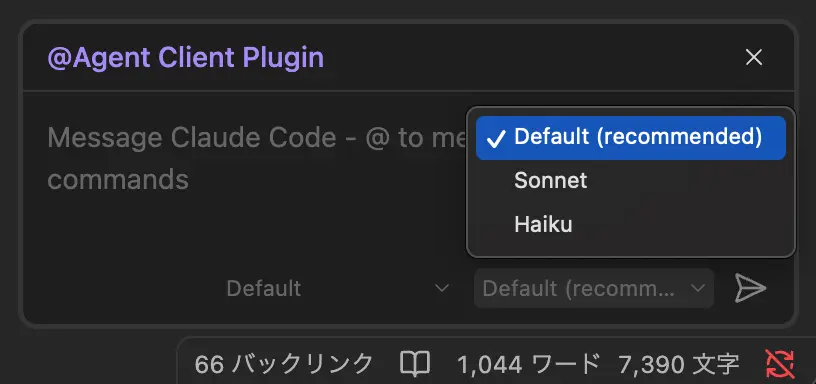
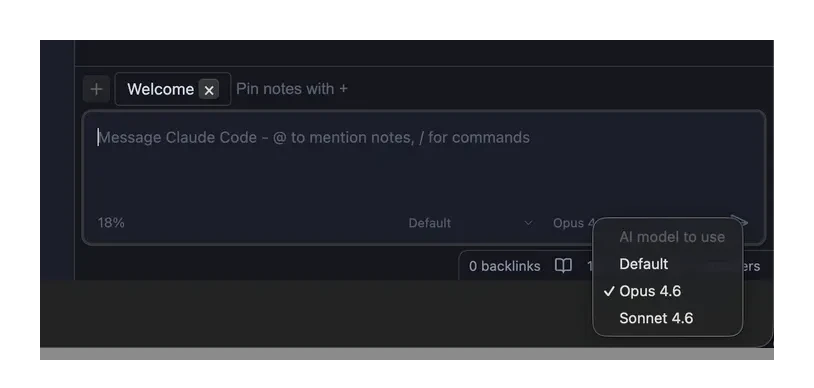
fix(screenshots): correct-window screen capture (I13) + close orphaned menus on unload (I14)
I13 - screen-mode capture grabbed the wrong Obsidian window:
screencapture -R composites the topmost window at the region, and the
daily-driver vault window (which hosts the agent session) stays
OS-frontmost over the fixtures window - so a popover shot leaked real
vault content while the renderer-DOM asserts still passed. Fix: float
the fixtures window (setAlwaysOnTop "floating" + moveTop) for the
capture, restored in a finally. Hands-free; +5 reproduce-first tests.

I14 - native menu popup orphaned across runs:
the plugin created Menus but never closed them on unload, so setup.sh's
plugin:disable orphaned the open popup and the next run screenshotted it.
Every in-sandbox tooling dismiss failed (DOM/Electron/OS-Escape/CDP/
hide-show); a CDP-injected click is dropped (window never OS-frontmost).
Fix is plugin-side: src/utils/menu-registry.ts tracks open Menus
(registerOpenMenu at the 5 new Menu() sites) and closeOpenMenus() runs
in plugin onunload. +4 reproduce-first tests. End-to-end validated
(model->mode no longer pollutes).

Batch 1 (3/4) regenerated against 1.1.4 with semantic clickSelectors
(fixes model-selection :last-child wrong-target defect now that
thought_level is the 3rd dropdown) + Tier-1 editorial fields:
mode-selection, model-selection, switch-agent (More-menu crop calibrated).

Gates: build 0, vitest 535/535, tsc clean, eslint src/ 0 errors.
No user-facing docs impact (onunload menu-close is invisible behavior).

diff --git a/tools/screenshots/lib/__tests__/orchestrator.test.ts b/tools/screenshots/lib/__tests__/orchestrator.test.ts
@@ -46,6 +46,7 @@ function makeMockCdp() {
 		clickWithCoords: vi.fn().mockResolvedValue(undefined),
 		getWindowBounds: vi.fn().mockResolvedValue({ x: 100, y: 50, width: 800, height: 600, scaleFactor: 2 }),
 		setWindowBounds: vi.fn().mockResolvedValue(undefined),
+		setWindowAlwaysOnTop: vi.fn().mockResolvedValue(undefined),
 		getWorkArea: vi.fn().mockResolvedValue({ x: 0, y: 30, width: 3200, height: 1770, scaleFactor: 2 }),
 		screenCaptureRegion: vi.fn().mockResolvedValue(undefined),
 		screenshot: vi.fn().mockResolvedValue(undefined),
@@ -572,7 +573,6 @@ describe("captureEntry — group crop (cropSelectors)", () => {
 	});
 });
 
-
 describe("captureEntry — screen capture mode (popovers)", () => {
 	it("uses screenCaptureRegion (not dev:screenshot) and the window scale factor for screen mode", async () => {
 		const deps = makeDeps();
@@ -612,6 +612,72 @@ describe("captureEntry — screen capture mode (popovers)", () => {
 		});
 	});
 
+	it("floats the fixtures window before screen capture and restores it after (I13)", async () => {
+		const deps = makeDeps();
+		const entry = {
+			name: "mode-selection",
+			width: 100,
+			height: 50,
+			crop: { x: 0, y: 0, width: 100, height: 50 },
+			captureMode: "screen" as const,
+			promptFile: "connect.txt",
+			initialState: { clickRibbon: true, clickSelector: ".x" },
+		};
+
+		await captureEntry(entry, deps);
+
+		const aot = deps.cdp.setWindowAlwaysOnTop as ReturnType<typeof vi.fn>;
+		// Floated on (true) and restored off (false).
+		expect(aot).toHaveBeenCalledWith(true);
+		expect(aot).toHaveBeenCalledWith(false);
+		// The float must precede the screencapture; the restore must follow it.
+		const order = aot.mock.invocationCallOrder;
+		const capOrder = (deps.cdp.screenCaptureRegion as ReturnType<typeof vi.fn>)
+			.mock.invocationCallOrder[0];
+		expect(order[0]).toBeLessThan(capOrder); // setTrue before capture
+		expect(order[order.length - 1]).toBeGreaterThan(capOrder); // setFalse after
+	});
+
+	it("restores alwaysOnTop even when the capture throws — the window never lingers over the daily vault (I13)", async () => {
+		const deps = makeDeps();
+		(
+			deps.cdp.screenCaptureRegion as ReturnType<typeof vi.fn>
+		).mockRejectedValue(new Error("screencapture boom"));
+		const entry = {
+			name: "mode-selection",
+			width: 100,
+			height: 50,
+			crop: { x: 0, y: 0, width: 100, height: 50 },
+			captureMode: "screen" as const,
+			promptFile: "connect.txt",
+			initialState: { clickRibbon: true, clickSelector: ".x" },
+		};
+
+		await expect(captureEntry(entry, deps)).rejects.toThrow(/boom/);
+		// Finally restored the float despite the throw.
+		expect(deps.cdp.setWindowAlwaysOnTop).toHaveBeenCalledWith(false);
+	});
+
+	it("does NOT float the window for window-mode (dev:screenshot) entries (I13)", async () => {
+		const deps = makeDeps();
+		const entry = {
+			name: "ribbon-icon",
+			width: 100,
+			height: 50,
+			crop: { x: 0, y: 0, width: 100, height: 50 },
+			initialState: { openNote: "Welcome.md" },
+		};
+
+		await captureEntry(entry, deps);
+
+		// Window mode uses dev:screenshot (renderer capture) — immune to
+		// z-order — so no float/restore is needed.
+		expect(deps.cdp.setWindowAlwaysOnTop).not.toHaveBeenCalled();
+		expect(deps.cdp.screenshot).toHaveBeenCalled();
+	});
+
+	
+	
 	it("clicks the dropdown via clickWithCoords and does NOT wait for .menu in screen mode", async () => {
 		const deps = makeDeps();
 		const entry = {

diff --git a/src/utils/__tests__/menu-registry.test.ts b/src/utils/__tests__/menu-registry.test.ts
@@ -1,0 +1,65 @@
+import { describe, it, expect, vi, beforeEach } from "vitest";
+import {
+	registerOpenMenu,
+	closeOpenMenus,
+	_openMenuCount,
+} from "../menu-registry";
+import type { Menu } from "obsidian";
+
+/** Minimal Menu stub: records hide() and captures the onHide callback. */
+function makeMenu() {
+	let hideCb: (() => void) | undefined;
+	const menu = {
+		hide: vi.fn(() => {
+			hideCb?.(); // Obsidian fires onHide when the menu hides
+		}),
+		onHide: vi.fn((cb: () => void) => {
+			hideCb = cb;
+		}),
+	};
+	return menu as unknown as Menu & {
+		hide: ReturnType<typeof vi.fn>;
+		onHide: ReturnType<typeof vi.fn>;
+	};
+}
+
+describe("menu-registry (I14 — close orphaned menus on plugin unload)", () => {
+	beforeEach(() => {
+		// Ensure a clean registry between tests.
+		closeOpenMenus();
+	});
+
+	it("tracks an open menu", () => {
+		const m = makeMenu();
+		registerOpenMenu(m);
+		expect(_openMenuCount()).toBe(1);
+		expect(m.onHide).toHaveBeenCalled();
+	});
+
+	it("auto-untracks a menu when it hides normally (selection / outside click)", () => {
+		const m = makeMenu();
+		registerOpenMenu(m);
+		expect(_openMenuCount()).toBe(1);
+		m.hide(); // user dismisses normally → onHide fires → untracked
+		expect(_openMenuCount()).toBe(0);
+	});
+
+	it("closes every still-open menu on unload and clears the registry", () => {
+		const a = makeMenu();
+		const b = makeMenu();
+		registerOpenMenu(a);
+		registerOpenMenu(b);
+		expect(_openMenuCount()).toBe(2);
+
+		closeOpenMenus();
+
+		expect(a.hide).toHaveBeenCalledTimes(1);
+		expect(b.hide).toHaveBeenCalledTimes(1);
+		expect(_openMenuCount()).toBe(0);
+	});
+
+	it("is idempotent — closing again with no open menus is a no-op", () => {
+		closeOpenMenus();
+		expect(_openMenuCount()).toBe(0);
+	});
+});

diff --git a/src/utils/menu-registry.ts b/src/utils/menu-registry.ts
@@ -1,0 +1,50 @@
+import type { Menu } from "obsidian";
+
+/**
+ * Tracks currently-open Obsidian {@link Menu} popups so the plugin can close
+ * them when it unloads.
+ *
+ * Obsidian's `Menu` is a native popup that is NOT closed automatically when the
+ * owning plugin unloads. If the plugin is reloaded (a BRAT update, a manual
+ * disable/enable, or the screenshot-automation `setup.sh`) while a dropdown
+ * menu is open, the menu *orphans*: it stays on screen, detached from the
+ * unloaded plugin's menu manager, and a newly-opened menu will not replace it.
+ * For real users this is a minor cosmetic glitch (a stray menu, dismissable
+ * with a click); for the screenshot pipeline it means a later capture
+ * screenshots the prior run's menu (I14 in the screenshot-automation spec).
+ *
+ * Registering each menu on open and closing any still-open ones in the plugin's
+ * `onunload` prevents the orphan. The registry is module-level (shared across
+ * the plugin's components); the plugin instance owns the lifecycle by calling
+ * {@link closeOpenMenus} from `onunload`, which runs while this module's state
+ * is still intact (the module only reloads on the subsequent enable).
+ */
+const openMenus = new Set<Menu>();
+
+/**
+ * Track a freshly-created menu so it can be force-closed on plugin unload.
+ * The menu auto-untracks itself when it hides normally (selection or outside
+ * click), so the registry only ever holds genuinely-open menus.
+ *
+ * Call immediately after `new Menu()` (before or after `showAtMouseEvent`).
+ */
+export function registerOpenMenu(menu: Menu): void {
+	openMenus.add(menu);
+	menu.onHide(() => openMenus.delete(menu));
+}
+
+/**
+ * Close every still-open tracked menu. Called from the plugin's `onunload` so a
+ * reload never leaves an orphaned native popup on screen.
+ */
+export function closeOpenMenus(): void {
+	for (const menu of openMenus) {
+		menu.hide();
+	}
+	openMenus.clear();
+}
+
+/** Test-only: current count of tracked open menus. */
+export function _openMenuCount(): number {
+	return openMenus.size;
+}

diff --git a/tools/screenshots/lib/__tests__/cdp.test.ts b/tools/screenshots/lib/__tests__/cdp.test.ts
@@ -396,3 +396,35 @@ describe("Cdp.clearViewport (I11)", () => {
 		expect(args).toContain("method=Emulation.clearDeviceMetricsOverride");
 	});
 });
+
+describe("Cdp.setWindowAlwaysOnTop (I13 — float the fixtures window for screen capture)", () => {
+	function proc() {
+		return makeFakeProc({
+			stdout: JSON.stringify({ result: { type: "boolean", value: true } }),
+		});
+	}
+
+	it("floats at the 'floating' level and raises when enabled", async () => {
+		spawnMock.mockImplementationOnce(() => proc());
+		const cdp = new Cdp();
+		await cdp.setWindowAlwaysOnTop(true);
+		const params = (spawnMock.mock.calls[0][1] as string[]).find((a) =>
+			a.startsWith("params="),
+		)!;
+		expect(params).toContain("setAlwaysOnTop(true");
+		expect(params).toContain("floating");
+		expect(params).toContain("moveTop");
+	});
+
+	it("clears alwaysOnTop when disabled", async () => {
+		spawnMock.mockImplementationOnce(() => proc());
+		const cdp = new Cdp();
+		await cdp.setWindowAlwaysOnTop(false);
+		const params = (spawnMock.mock.calls[0][1] as string[]).find((a) =>
+			a.startsWith("params="),
+		)!;
+		expect(params).toContain("setAlwaysOnTop(false)");
+		expect(params).not.toContain("floating");
+	});
+});
+

diff --git a/tools/screenshots/lib/cdp.ts b/tools/screenshots/lib/cdp.ts
@@ -267,6 +267,26 @@ export class Cdp {
 	}
 
 	/**
+	 * Float (or un-float) THIS window above all others. Screen-mode captures
+	 * use `screencapture -R`, which composites whatever window is topmost at
+	 * the region — and the user's daily-driver Obsidian window (which hosts the
+	 * agent session driving this capture) stays OS-focused, so a focus()/raise
+	 * loses the z-order race and the capture grabs the wrong window's pixels
+	 * while the DOM-based asserts (which target the vault="vault" renderer)
+	 * still pass. Setting the fixtures window alwaysOnTop at the "floating"
+	 * level lifts it — and its native Menu popup, which renders above it
+	 * (verified) — over the daily-driver regardless of focus, so the capture
+	 * always grabs the fixtures window. Restored to false after the capture so
+	 * the window doesn't linger over the user's daily vault (I13).
+	 */
+	async setWindowAlwaysOnTop(enabled: boolean): Promise<void> {
+		const expr = enabled
+			? `(() => { try { const w = require("@electron/remote").getCurrentWindow(); w.setAlwaysOnTop(true, "floating"); w.moveTop(); return true; } catch (e) { return false; } })()`
+			: `(() => { try { require("@electron/remote").getCurrentWindow().setAlwaysOnTop(false); return true; } catch (e) { return false; } })()`;
+		await this.evaluate(expr);
+	}
+
+	/**
 	 * Get the primary display's work area (screen minus menu bar / dock) in
 	 * logical points, plus its backing scale factor. Used to bottom-align the
 	 * capture window so Obsidian flips popover menus upward (keeping them

diff --git a/tools/screenshots/lib/orchestrator.ts b/tools/screenshots/lib/orchestrator.ts
@@ -41,6 +41,7 @@ export interface CdpLike {
 	clickWithCoords(selector: string): Promise<void>;
 	getWindowBounds(): Promise<{ x: number; y: number; width: number; height: number; scaleFactor: number }>;
 	setWindowBounds(bounds: { x: number; y: number; width: number; height: number }): Promise<void>;
+	setWindowAlwaysOnTop(enabled: boolean): Promise<void>;
 	getWorkArea(): Promise<{ x: number; y: number; width: number; height: number; scaleFactor: number }>;
 	screenCaptureRegion(outputPath: string, region: { x: number; y: number; width: number; height: number }): Promise<void>;
 	screenshot(outputPath: string): Promise<void>;
@@ -148,7 +149,16 @@ export async function captureEntry(
 			height: SCREEN_CAPTURE_WINDOW.height,
 		});
 		await sleep(SETTLE_MS);
+		// I13: float the fixtures window above the daily-driver for the whole
+		// capture (restored in the finally below). screencapture composites the
+		// topmost window at the region; the daily-driver window hosting this
+		// agent session stays OS-focused, so a focus()/raise loses the z-order
+		// race — only alwaysOnTop wins it. The native Menu popup renders above
+		// the floated window (verified), so popover shots capture correctly.
+		await deps.cdp.setWindowAlwaysOnTop(true);
 	}
+
+	try {
 
 	// 1. Mobile emulation (before any UI driving)
 	if (entry.mobile) {
@@ -553,6 +563,13 @@ export async function captureEntry(
 		throw new Error(
 			`content guard: "${entry.name}" has ${distinct} distinct colors, below the floor of ${floor} — capture is blank/degraded; deleted ${outputPath}`,
 		);
+	}
+	} finally {
+		// I13: always un-float the fixtures window so it never lingers over the
+		// user's daily vault — even if an assert or the content guard threw.
+		if (entry.captureMode === "screen") {
+			await deps.cdp.setWindowAlwaysOnTop(false);
+		}
 	}
 }
 

diff --git a/src/plugin.ts b/src/plugin.ts
@@ -36,6 +36,7 @@ import {
 import type { SavedSessionInfo } from "./types/session";
 import type { PerLeafTabState } from "./types/tab";
 import { initializeLogger, getLogger } from "./utils/logger";
+import { closeOpenMenus } from "./utils/menu-registry";
 
 // Re-export for backward compatibility
 export type { AgentEnvVar, CustomAgentSettings };
@@ -333,6 +334,12 @@ export default class AgentClientPlugin extends Plugin {
 	}
 
 	onunload() {
+		// I14: close any open dropdown menu so a reload (BRAT update,
+		// disable/enable, or the screenshot setup.sh) doesn't leave an orphaned
+		// native popup on screen — it would otherwise survive unload, and the
+		// next screenshot run would capture it.
+		closeOpenMenus();
+
 		// Clear registry (sidebar views are managed by Obsidian workspace)
 		this.viewRegistry.clear();
 

diff --git a/src/ui/InputToolbar.tsx b/src/ui/InputToolbar.tsx
@@ -2,6 +2,7 @@ import * as React from "react";
 const { useRef, useEffect, useCallback, useMemo } = React;
 import { setIcon, Menu } from "obsidian";
 
+import { registerOpenMenu } from "../utils/menu-registry";
 import {
 	flattenConfigSelectOptions,
 	type SessionModeState,
@@ -58,6 +59,8 @@ function ToolbarDropdown({
 			e.stopPropagation();
 
 			const menu = new Menu();
+
+			registerOpenMenu(menu);
 
 			menu.addItem((menuItem) => {
 				menuItem.setTitle(title).setIsLabel(true);

diff --git a/src/ui/TabBar.tsx b/src/ui/TabBar.tsx
@@ -13,6 +13,7 @@
 import * as React from "react";
 const { useRef, useEffect, useCallback } = React;
 import { Menu, setIcon, type MenuItem } from "obsidian";
+import { registerOpenMenu } from "../utils/menu-registry";
 import type { TabInfo, TabState } from "../types/tab";
 
 // ============================================================================
@@ -198,6 +199,7 @@ export function TabBar({
 		(e: React.MouseEvent, tab: TabInfo) => {
 			e.preventDefault();
 			const menu = new Menu();
+			registerOpenMenu(menu);
 
 			menu.addItem((item: MenuItem) => {
 				item.setTitle("Rename").setIcon("pencil").onClick(() => {
@@ -243,6 +245,7 @@ export function TabBar({
 	const handleChevronClick = useCallback(
 		(e: React.MouseEvent) => {
 			const menu = new Menu();
+			registerOpenMenu(menu);
 			for (const tab of tabs) {
 				menu.addItem((item: MenuItem) => {
 					item.setTitle(tab.label)

diff --git a/src/ui/ChatPanel.tsx b/src/ui/ChatPanel.tsx
@@ -9,6 +9,7 @@ import {
 	type MenuItem,
 } from "obsidian";
 
+import { registerOpenMenu } from "../utils/menu-registry";
 import type { AttachedFile, ChatInputState, ChatMessage } from "../types/chat";
 import { isSameDirectory } from "../utils/platform";
 import { deriveNewLeaf } from "../utils/link-leaf";
@@ -584,6 +585,7 @@ export function ChatPanel({
 	const handleShowSidebarMenu = useCallback(
 		(e: React.MouseEvent<HTMLDivElement>) => {
 			const menu = new Menu();
+			registerOpenMenu(menu);
 
 			// -- Switch agent section --
 			menu.addItem((item: MenuItem) => {

diff --git a/src/ui/ChatView.tsx b/src/ui/ChatView.tsx
@@ -1,4 +1,5 @@
 import { ItemView, WorkspaceLeaf, Menu, Notice, type MenuItem } from "obsidian";
+import { registerOpenMenu } from "../utils/menu-registry";
 import type {
 	IChatViewContainer,
 	IChatTabHandle,
@@ -447,6 +448,7 @@ function ChatComponent({
 				return;
 			}
 			const menu = new Menu();
+			registerOpenMenu(menu);
 			const agents = plugin.getAvailableAgents();
 			for (const agent of agents) {
 				menu.addItem((item: MenuItem) => {